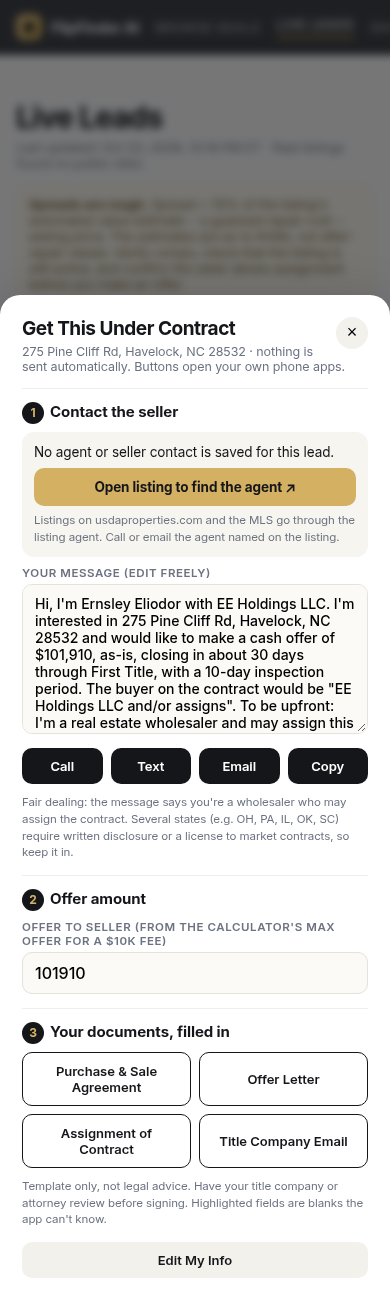
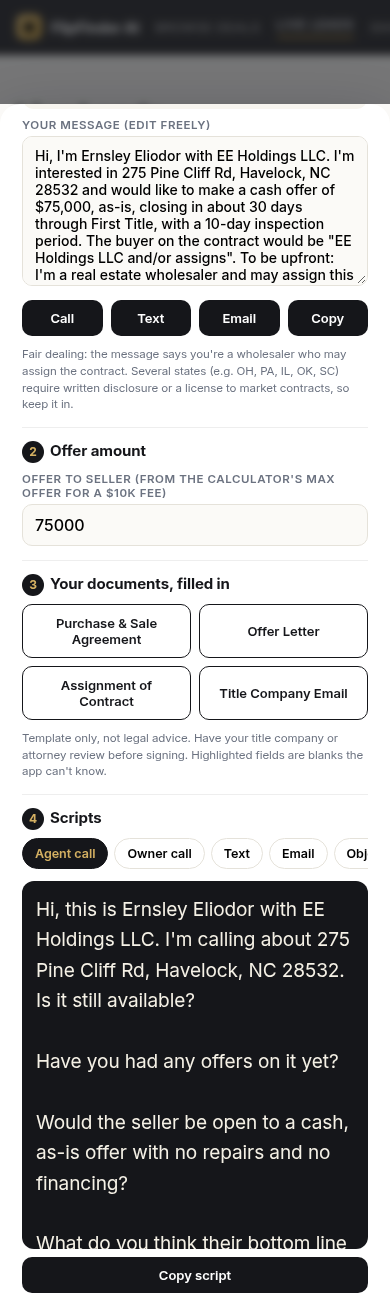
Add call/text/email scripts to contract flow

diff --git a/contract.js b/contract.js
@@ -19,7 +19,7 @@ const css=`.gc-open{margin-top:6px;background:linear-gradient(135deg,#d4b062,#b8
 .gc .h{font-weight:700;font-size:15px}.gc .acts{display:grid;grid-template-columns:repeat(4,1fr);gap:8px;margin-top:10px}.gc .acts a,.gc .acts button,.gc .b2{display:block;text-align:center;background:#15161a;color:#fff;border:0;border-radius:10px;padding:10px 4px;font:600 13px Inter,system-ui;text-decoration:none;cursor:pointer}
 .gc .ct{background:#f7f5ef;border-radius:12px;padding:12px;font-size:13.5px;margin-top:8px}.gc .ct a.big{display:block;margin-top:8px;text-align:center;background:#d4b062;color:#15161a;font-weight:700;padding:11px;border-radius:10px;text-decoration:none}
 .gc .docs{display:grid;grid-template-columns:1fr 1fr;gap:8px;margin-top:8px}.gc .docs button{background:#fff;color:#15161a;border:1px solid #15161a;border-radius:10px;padding:10px;font:600 13px Inter,system-ui;cursor:pointer}
-.gc .note{font-size:11.5px;color:#6b7280;margin-top:10px;line-height:1.45}.gc .row{display:flex;gap:8px;margin-top:14px}.gc .row .b2{flex:1}.gc .b2.lt{background:#f3f1ec;color:#15161a}`;
+.gc .tabs{display:flex;gap:6px;overflow-x:auto;margin-top:8px;padding-bottom:4px}.gc .tabs button{flex:none;border:1px solid #e5e2da;background:#fff;border-radius:999px;padding:7px 12px;font:600 12.5px Inter,system-ui;cursor:pointer}.gc .tabs button.on{background:#15161a;color:#d4b062;border-color:#15161a}.gc .tp{white-space:pre-wrap;background:#f7f5ef;border-radius:12px;padding:14px;font-size:14px;line-height:1.5;margin-top:8px;max-height:340px;overflow:auto}.gc .tp.big{background:#15161a;color:#f5f1e6;font-size:19px;line-height:1.6}.gc .note{font-size:11.5px;color:#6b7280;margin-top:10px;line-height:1.45}.gc .row{display:flex;gap:8px;margin-top:14px}.gc .row .b2{flex:1}.gc .b2.lt{background:#f3f1ec;color:#15161a}`;
 let bg;
 function shell(){if(bg)return bg;const s=document.createElement('style');s.textContent=css;document.head.appendChild(s);bg=document.createElement('div');bg.className='gc-bg';bg.innerHTML='<div class="gc" role="dialog" aria-modal="true"></div>';document.body.appendChild(bg);
  bg.addEventListener('click',e=>{if(e.target==bg||e.target.classList.contains('x'))bg.classList.remove('on')});document.addEventListener('keydown',e=>{if(e.key=='Escape')bg.classList.remove('on')});return bg}
@@ -63,6 +63,12 @@ function docs(d,p,offer){const by=buyer(p)?E(buyer(p))+' and/or assigns':'<mark>
 <ul><li>Earnest money: ${M(p.emd||500)} (refundable during the ${E(p.insp||10)}-day inspection period)</li><li>Closing: within ${E(p.close||30)} days</li><li>Assignment fee to be paid to me at closing on the settlement statement</li></ul>
 <p>Attached: purchase agreement, and the assignment once signed. Please confirm you handle assignments, and send wiring instructions and a title search. I'll verify any wiring instructions by phone before sending funds.</p>
 <p>Thanks,<br>${B(p.name,'Your name')}<br>${B(p.phone,'phone')} · ${B(p.email,'email')}</p>`}}
+function scripts(d,p,o){const a=d.address||'the property',of=M(o),cd=p.close||30,ip=p.insp||10,em=M(p.emd||500),nm=p.name||'[your name]',co=buyer(p)||'[company]',ph=p.phone||'[phone]';
+return {'Agent call':`Hi, this is ${nm} with ${co}. I'm calling about ${a}. Is it still available?\n\nHave you had any offers on it yet?\n\nWould the seller be open to a cash, as-is offer with no repairs and no financing?\n\nWhat do you think their bottom line is?\n\n— Present the offer —\nI'd like to offer ${of} cash, as-is. I'd be buying as ${co} and/or assigns. I'd want a ${ip}-day inspection period, and I'll put ${em} earnest money down with ${p.tname||'my title company'}. We can close in about ${cd} days.\n\nTo be upfront, I'm a wholesaler, so I may assign the contract to one of my cash buyers.\n\nCan you send it to the seller today?\n\nMy number is ${ph}. Thank you!`,
+'Owner call':`Hi, is this the owner of ${a}? My name is ${nm} with ${co}. I buy houses in the area. Do you have a couple of minutes?\n\nHow long have you owned it? \n\nWhat has you thinking about selling?\n\nWhat's the condition like? Roof, furnace, plumbing, anything that needs work?\n\nHow soon would you want to be done?\n\nIf I could close in ${cd} days, cash, as-is, with no repairs or cleanup for you, what's the lowest you'd take?\n\n— Present the offer —\nBased on the work it needs, I can offer ${of} cash. I'd be buying as ${co} and/or assigns, which means I may bring in a partner buyer to close. There's a ${ip}-day inspection period, and the deposit goes to ${p.tname||'a title company'}, not to me.\n\nIf that works, I'll send you a simple agreement to sign today. What's the best email for you?`,
+'Text':`Hi, this is ${nm} with ${co}. I'd like to make a cash, as-is offer of ${of} on ${a}, closing in about ${cd} days. Buyer would be ${co} and/or assigns (I'm a wholesaler and may assign). Is the seller open to it? ${ph}`,
+'Email':`Subject: Cash offer – ${a}\n\nHi,\n\nI'd like to make a cash offer of ${of} on ${a}, as-is, with no financing contingency.\n\n- Buyer: ${co} and/or assigns\n- Earnest money: ${em} with ${p.tname||'my title company'}\n- Inspection period: ${ip} days\n- Closing: about ${cd} days\n\nTo be upfront, I'm a real estate wholesaler and may assign this contract to another cash buyer before closing.\n\nPlease let me know if the seller would consider it. I can send a written offer today.\n\nThanks,\n${nm}\n${co}\n${ph}`,
+'Objections':`"That's too low."\n→ I understand. My number has to cover the repairs and the risk for a cash buyer. What number would work for you? If we're close, I'll see what I can do.\n\n"Are you a wholesaler?"\n→ Yes, I am. I put the house under contract and may assign it to one of my cash buyers, who closes at the title company. You still get your price, cash, as-is, on the timeline we agree to.\n\n"I need to think about it."\n→ Of course. What part do you want to think over, the price or the timing? Can I check back with you tomorrow?\n\n"I already have an agent." / "Talk to my agent."\n→ No problem. Can I get their name and number? I'll send them the offer directly.\n\n"Do you have proof of funds?"\n→ The buyer closing will provide proof of funds to the title company, and the earnest money of ${em} is held by ${p.tname||'the title company'}. I can send that over once we have an agreement.`}}
 function docView(title,html){const w=window.open('','_blank');if(!w){alert('Allow pop-ups to open the document.');return}
  w.document.write(`<!doctype html><html><head><meta charset="utf-8"><meta name="viewport" content="width=device-width,initial-scale=1"><title>${E(title)}</title><style>body{font:15px/1.55 Georgia,serif;max-width:760px;margin:auto;padding:24px;color:#111}h1{font:700 22px Inter,system-ui,sans-serif}mark{background:#fde68a;padding:0 3px}.bar{position:sticky;top:0;background:#fff;padding:8px 0;display:flex;gap:8px;border-bottom:1px solid #eee;margin-bottom:12px}.bar button{font:600 14px system-ui;padding:9px 14px;border-radius:10px;border:0;background:#15161a;color:#fff}.d{font:12px system-ui;color:#666;border-top:1px solid #eee;margin-top:24px;padding-top:10px}@media print{.bar{display:none}mark{background:none;border-bottom:1px solid #000}}</style></head><body><div class="bar"><button onclick="print()">Print / Save as PDF</button><button onclick="navigator.clipboard.writeText(document.getElementById('doc').innerText).then(()=>this.textContent='Copied')">Copy</button></div><div id="doc">${html}</div><div class="d">Template only, not legal advice. Wholesaling rules vary by state: some require a license or specific written disclosures. Have your title company or a real estate attorney review before signing. Yellow fields are blanks to fill in.</div></body></html>`);w.document.close()}
 function open(d,offer){if(!has()){profile(()=>open(d,offer));const s=bg.querySelector('.sub');s.innerHTML='<b>First, your info.</b> Enter it once and every offer and document fills itself in. '+s.innerHTML;return}
@@ -75,14 +81,15 @@ function open(d,offer){if(!has()){profile(()=>open(d,offer));const s=bg.querySel
 <div class="note">Fair dealing: the message says you're a wholesaler who may assign the contract. Several states (e.g. OH, PA, IL, OK, SC) require written disclosure or a license to market contracts, so keep it in.</div></div>
 <div class="step"><span class="sn">2</span><span class="h">Offer amount</span><label>Offer to seller (from the calculator's max offer for a $10k fee)</label><input data-o inputmode="numeric" value="${Math.round(offer)}"></div>
 <div class="step"><span class="sn">3</span><span class="h">Your documents, filled in</span><div class="docs" data-docs></div><div class="note">Template only, not legal advice. Have your title company or attorney review before signing. Highlighted fields are blanks the app can't know.</div></div>
+<div class="step"><span class="sn">4</span><span class="h">Scripts</span><div class="tabs" data-tabs></div><div class="tp" data-tp></div><button class="b2" data-sc style="width:100%;margin-top:8px">Copy script</button></div>
 <div class="row"><button class="b2 lt" data-edit>Edit My Info</button></div>`);
  const ta=box.querySelector('[data-m]'),oi=box.querySelector('[data-o]');let dirty=false;ta.oninput=()=>dirty=true;
  function sync(){const o=+oi.value.replace(/[^0-9]/g,'')||0;if(!dirty)ta.value=msg(d,p,o);const t=ta.value,sub='Cash offer – '+(d.address||'your property');
   const c=box.querySelector('[data-call]'),s=box.querySelector('[data-sms]'),m=box.querySelector('[data-mail]');
   c.href=ph?'tel:'+ph.replace(/[^0-9+]/g,''):(d.url||'#');s.href='sms:'+(ph?ph.replace(/[^0-9+]/g,''):'')+'?&body='+encodeURIComponent(t);m.href='mailto:'+encodeURIComponent(em)+'?subject='+encodeURIComponent(sub)+'&body='+encodeURIComponent(t);if(!ph)c.target='_blank';
-  const D=docs(d,p,o),dd=box.querySelector('[data-docs]');dd.innerHTML='';Object.keys(D).forEach(k=>{const b=document.createElement('button');b.textContent=k;b.onclick=()=>docView(k+' – '+(d.address||''),docs(d,p,+oi.value.replace(/[^0-9]/g,'')||0)[k]);dd.appendChild(b)})}
+  const D=docs(d,p,o),dd=box.querySelector('[data-docs]');dd.innerHTML='';Object.keys(D).forEach(k=>{const b=document.createElement('button');b.textContent=k;b.onclick=()=>docView(k+' – '+(d.address||''),docs(d,p,+oi.value.replace(/[^0-9]/g,'')||0)[k]);dd.appendChild(b)});const S=scripts(d,p,o),tb=box.querySelector('[data-tabs]'),tp=box.querySelector('[data-tp]');tb.innerHTML='';const pick=k=>{box._sk=k;tp.textContent=S[k];tp.className='tp'+(/call/.test(k)?' big':'');tb.querySelectorAll('button').forEach(x=>x.classList.toggle('on',x.textContent==k))};Object.keys(S).forEach(k=>{const b=document.createElement('button');b.textContent=k;b.onclick=()=>pick(k);tb.appendChild(b)});pick(box._sk||'Agent call')}
  oi.oninput=sync;sync();
- box.querySelector('[data-copy]').onclick=e=>navigator.clipboard.writeText(ta.value).then(()=>e.target.textContent='Copied');
+ box.querySelector('[data-sc]').onclick=e=>navigator.clipboard.writeText(box.querySelector('[data-tp]').textContent).then(()=>e.target.textContent='Copied');box.querySelector('[data-copy]').onclick=e=>navigator.clipboard.writeText(ta.value).then(()=>e.target.textContent='Copied');
  box.querySelector('[data-edit]').onclick=()=>profile(()=>open(d,+oi.value||offer))}
 document.addEventListener("DOMContentLoaded",shell);
 window.GC={open,profile,get,docs};
